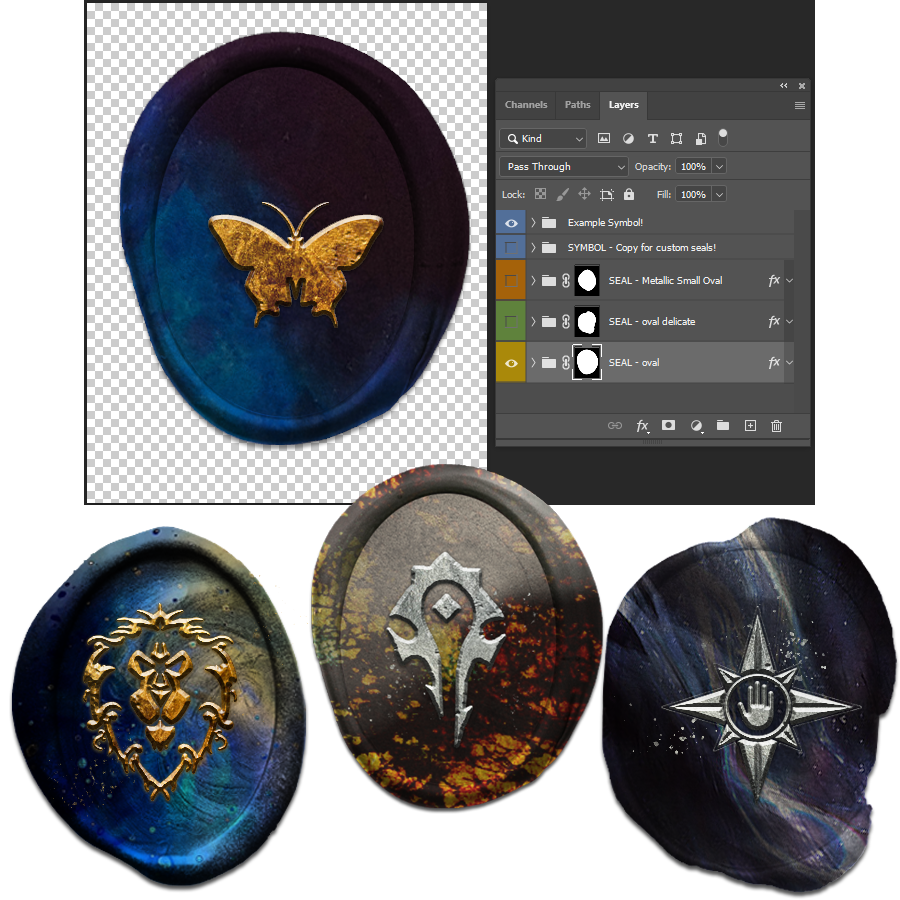
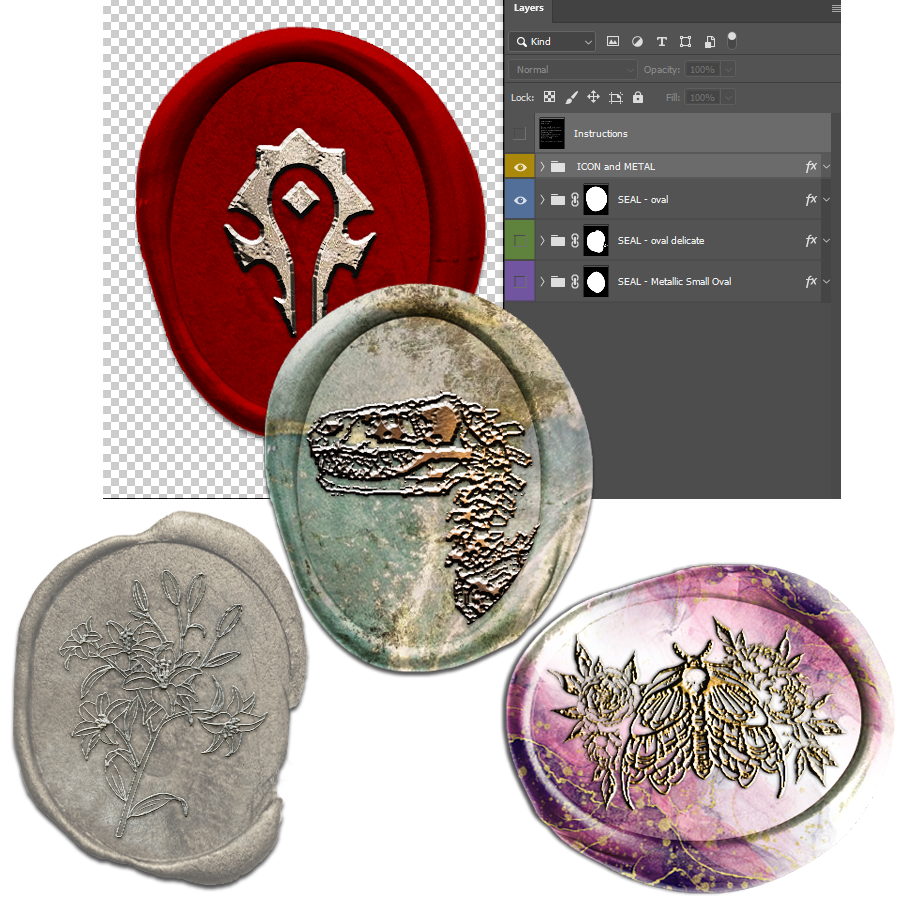
updates for seals

diff --git a/docs/photoshop/wax-seals.md b/docs/photoshop/wax-seals.md
@@ -7,6 +7,10 @@ Wax seals include round and square formats with numerous patterns and colors inc
 
 You can create these for D&D, Pathfinder, LARPs, World of Darkness, Final Fantasy, World of Warcraft, homebrew settings, thief guilds, noble families, and many other games and genres.
 
+:::sonceri Photoshop Version
+These templates use layer effects, masks, and clipping masks to generate seals. Versions for Clip Studio or other graphic programs are not available yet due to some limitations. These were created using the latest Photoshop Creative Cloud version.
+:::
+
 :::sonceri Fonts and Brushes
 If you want to add special effects, add text, or grunge up the seals, download and install fonts and brushes. See [Fonts and Brushes](psd-resources.md).
 :::
@@ -14,6 +18,14 @@ If you want to add special effects, add text, or grunge up the seals, download a
 ## Download PSD Files
 
 You have more options for making wax seals! You will need to supply your own icons for the new files. The Original seals file does have some icons already available.
+
+Each file includes:
+
+* A top level instruction layer to get you started
+* A location to save your icons
+* Metal touches to highlight your icon
+* Multiple shapes for the seal
+* Numerous options for a simple color or patterns, colors, and effects to create brilliant seals
 
 :::warning Large Files
 These files can be rather large, some of them ~200mb, due to the hefty amount of shapes and overlay colors. I tried to make these smaller, and group seal shapes into specific files.
@@ -25,10 +37,10 @@ Download Photoshop files!
 
 | | |
 | -- | -- |
-| [Original Sonceri Seals](https://drive.google.com/file/d/1wpRWY5fYhMen82PUA114-Zll8WM_qBVo/view?usp=sharing) | A few shapes, colors, and wax options with a bunch of icon examples to choose from. You can add your own. |
-| [Round Wax Seals zip](https://drive.google.com/file/d/1iU0o4BgMJzsvD7EcVkfKULD_Gw79uO-u/view?usp=sharing) | Four round options including white with flowers, plain round, heavy round, and round with a hex imprint. Numerous color and pattern options. Only a couple icon examples. |
+| [Round Wax Seals zip](https://drive.google.com/file/d/1iU0o4BgMJzsvD7EcVkfKULD_Gw79uO-u/view?usp=sharing) | 3 round options, arched, and hex |
 | [Oval Wax Seals zip](https://drive.google.com/file/d/1tx-h6VR3hmY2gQVMB0d2uBViwf7qHiUv/view?usp=sharing) | Three oval options with different kinds of wax and thickness. Numerous color and pattern options. Only a couple icon examples. |
 | [Square Wax Seals zip](https://drive.google.com/file/d/1VEBra-1lcR9hVh3UmmEgLKOlsKX8lL4-/view?usp=sharing) | Three options including square, diamond, and rectangle. Numerous color and pattern options. Only a couple icon examples. |
+| [Original Sonceri Seals](https://drive.google.com/file/d/1wpRWY5fYhMen82PUA114-Zll8WM_qBVo/view?usp=sharing) | A few shapes, colors, and wax options with a bunch of icon examples to choose from. You can add your own. This set requires additional steps to use and not as many options as the new ones. |
 
 </div>
 
@@ -46,14 +58,13 @@ Download Photoshop files!
 
 ## Get an Icon
 
-Before creating a seal, you will need an icon, clipart, or symbol. This should have a transparent background and completely black for best results. Of course, play around with ideas! These files give you a base to create some awesome seals!
+Before creating a seal, you will need an icon, clipart, or symbol. This should have a transparent background.
 
 Where to find a symbol?
 
 * Search for free lineart or clipart. Check icon libraries like [Flaticon](https://www.flaticon.com/), FontAwesome, or Material.
 * Draw your own lineart. Just make sure it is on a transparent background.
 * Use free heraldry images for flags and house crests. There are many sites and libraries, like [HeraldryClipart](http://www.heraldicclipart.com/catalog/index1.html)
-* Save images from the [WoW Tabard Designer](https://wow-hunter.ro/tabard-creator/).
 * Search for vintage designs and decorations like art nouveau or art deco designs.
 
 You can add one or many different icons to make up your seal!
@@ -66,66 +77,29 @@ If you are new to cleaning up art, see [Cut out Assets](../wow-conquest/capture-
 
 It's time to create your wax seal. These instructions will use the new round seals, and can be used for any file:
 
-<Iframe url="https://www.youtube.com/embed/Oz25LotPTsg"
-        width="854px"
-        height="480px"
-        id="myId"
-        className="video-container"
-        display="initial"
-        position="relative"
-        allow="accelerometer; autoplay=1; clipboard-write; encrypted-media; gyroscope; picture-in-picture" 
-        allowFullScreen
-        />
-
-1. Create a duplicate of the layer group **SYMBOL - Copy for custom seals!** You will add your icon here and set up optional foil (metal texture).
+1. Open one of the seals files. They are all set up exactly the same. The first layer is an instruction to get started.
 
     ![Wax Seals](/img/resources/wow-seal1.jpg)
 
-1. Paste the transparent icon into the Icon folder. It will automatically add embossing and hide the black color. If the icon ends up in another layer outside of the group, just drag and drop that layer!
+1. Expand the ICON and METAL group folder. The first options are a bunch of metals. Just show/hide 1 metal layer! This will lay over your icon. Then copy and paste your icon into the ADD ICON HERE folder.
 
     ![Wax Seals](/img/resources/wow-seal2.jpg)
 
-1. Select a seal shape by showing/hiding those groups. 
+    :::sonceri About Foils
+    Metal effects can really highlight your icon. But if you don't want one, that's ok! You can hide all of those layers. Just make sure the icon you paste in is fully black in color.
+    :::
+
+1. Show 1 seal folder. Hide the others. This is the seal you will make. Then expand the PICK COLORS folder. You can browse through the folders and options, showing and hiding patterns and colors. These layers are like stacking transparencies, so they will show through to the next. For best results, only have 1 showing. But you can try many! 
+
+    Each folder has options to choose from. This example shows three examples: just a Base Color of red, an image from the Black folder, and an option from Mixed.
 
     ![Wax Seals](/img/resources/wow-seal3.jpg)
-
-1. Show/hide layers to find a color you like for the seal. Colors and patterns are separated into color groups. You can show multiple layer to change how the colors and patterns look. 
-
-    ![Wax Seals](/img/resources/wow-seal4.jpg)
 
     :::sonceri Add new patterns!
     You can also add your own! Find a pattern you like, copy and paste it into those layer groups. Change the layer style from Normal to options like Multiply, Screen, Lighten, and so on till you find a look you like. It will automatically mask to fill just the wax seal.
     :::
 
-1. Save as a *.png*, or add a foil effect. See the next section.
-
-## Add Foil Effect
-
-To add a foil effect, you have a couple options. Here's an easy method:
-
-1. Select the icon layer. Using the move tool, select all, nudge up and down with your keyboard, to select the icon.
-
-    ![Foil1](/img/resources/foil1.jpg)
-
-1. With the icon selected, click on the Masked Foil folder. Click the Add Mask button at the bottom of the layers list. A new black and white mask is added to the group. This will show images only within the white area.
-
-    ![Mask](/img/resources/foil2.jpg)
-
-1. Show/hide the metal texture options to add a foil look to the icon. You can add your own in this folder too!
-
-    ![Mask](/img/resources/foil3.jpg)
-
-1. Save as a *.png*.
-
-Here are some foil and seal examples for a single icon:
-
-<div class="info-plain">
-
-| | | | |
-|--|--|--|--|
-| ![Dragon](/img/resources/seals/seal-dragon1.png) | ![Dragon](/img/resources/seals/seal-dragon2.png) | ![Dragon](/img/resources/seals/seal-dragon3.png) | ![Dragon](/img/resources/seals/seal-dragon4.png) |
-
-</div>
+1. Save as a *.png*. Click File > Export > Quick Export as a PNG. You can upload the image to Discord, Google docs, art galleries like Imgur, and much more!
 
 ## Example Seals
 
@@ -149,5 +123,3 @@ Click to zoom in. These seals are much larger than viewed below. Feel free to sa
 | ![Seal](/img/resources/seals/zandalari.png) |  |  |  |
 
 </div>
-
-import Iframe from 'react-iframe';
